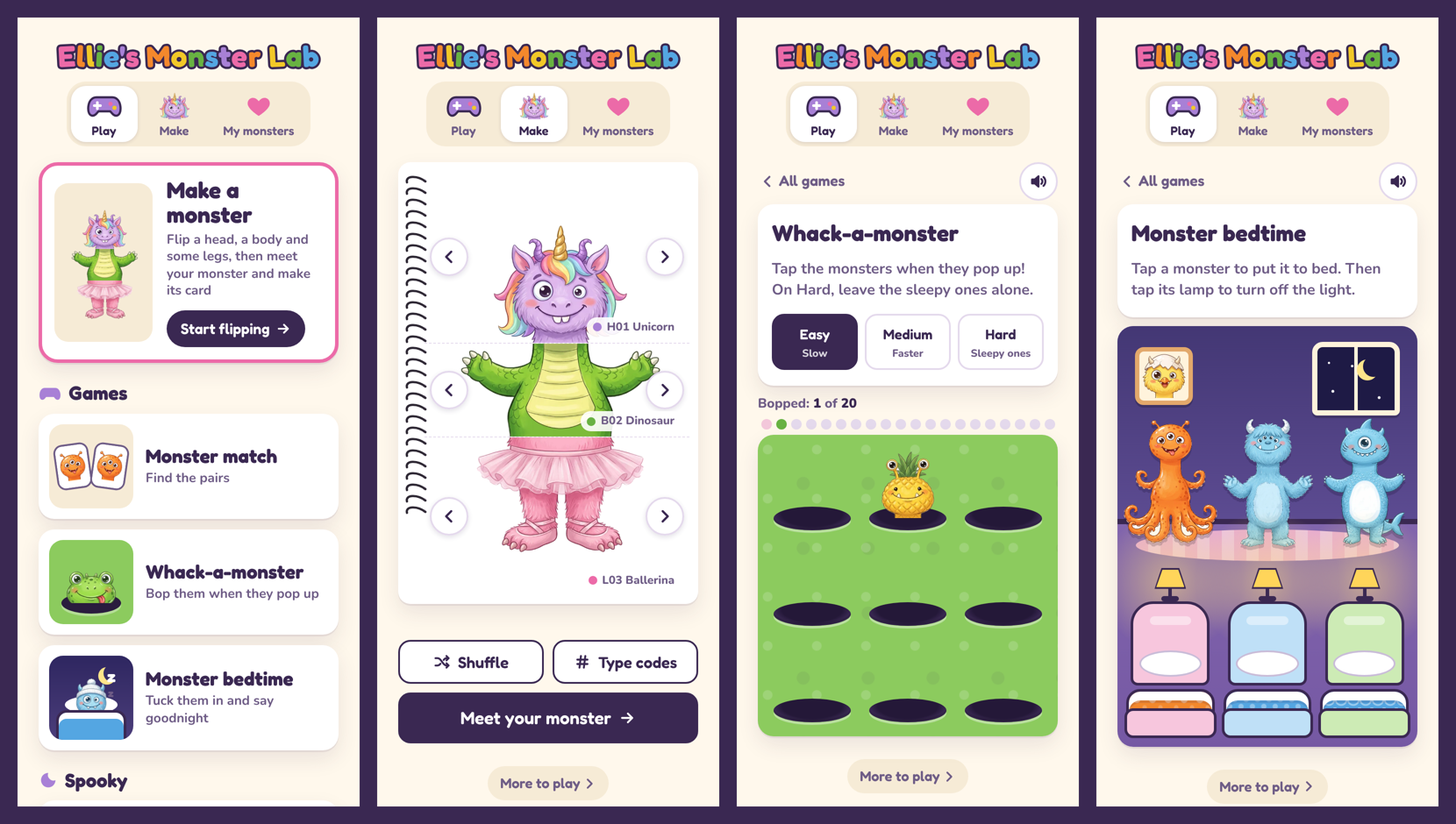
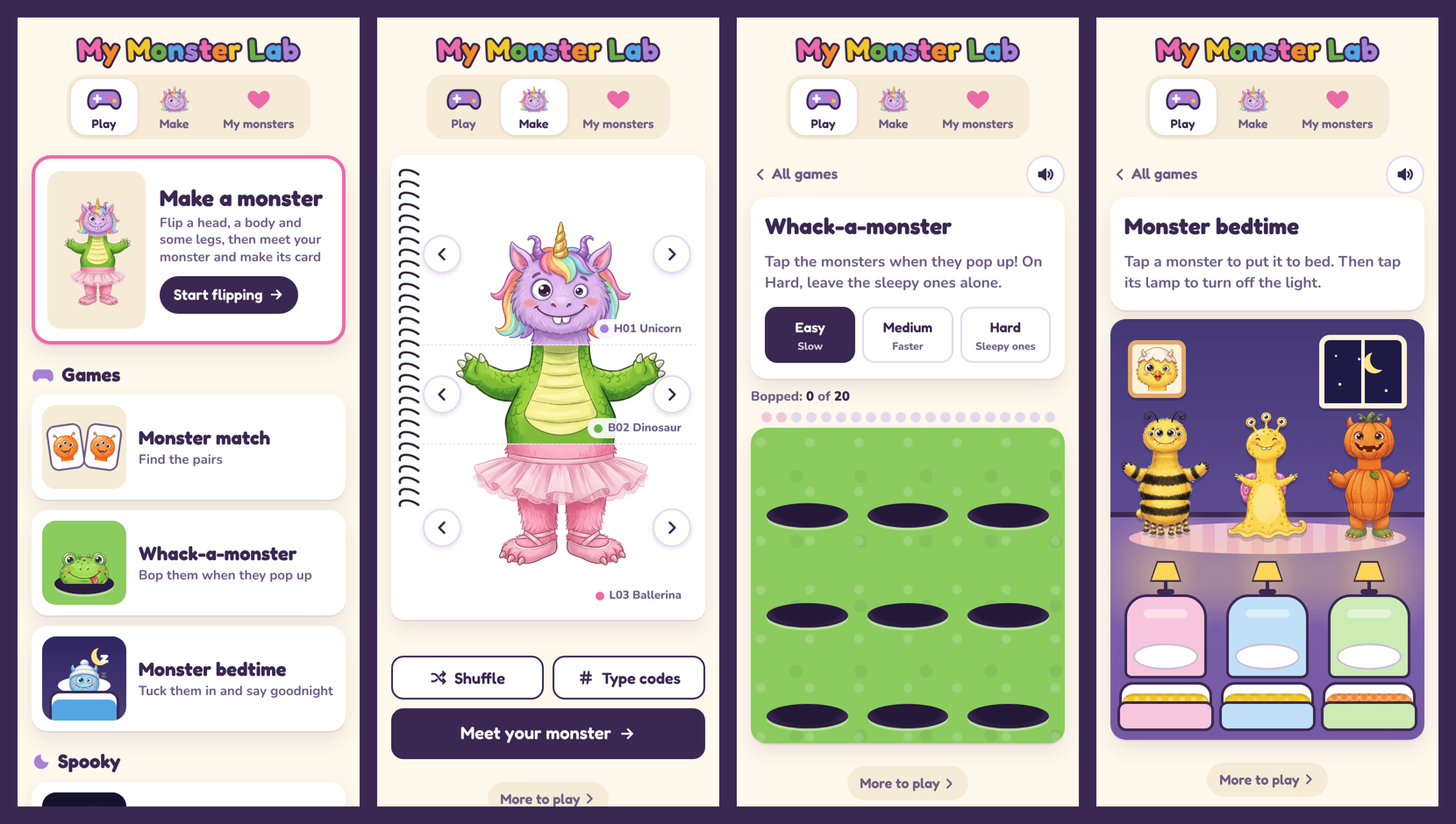
Family details out of the public code; privacy wording; test_site fails on errors
- README: privacy wording (the display name goes in personalised links),
  local serving instead of the file:// claim, no name or age.
- The build replaces the preview's name by pattern; placeholders and
  comments are generic; tests use made-up names.
- New screenshot; the sample card picture is gone.
- test_site.py checks each step (save, delete, backup, restore, overflow,
  page errors) and exits non-zero if any fails.

Claude-Session: https://claude.ai/code/session_01NQ6FTNbBids6pYzNb6FNsW

diff --git a/index.html b/index.html
@@ -724,7 +724,7 @@ button { cursor: pointer; }
     <div class="panel settings">
       <h2 class="h2">Whose book is this?</h2>
       <label class="field" for="owner">Name on the book and cards
-        <input id="owner" maxlength="20" autocomplete="off" placeholder="e.g. Ellie"></label>
+        <input id="owner" maxlength="20" autocomplete="off" placeholder="e.g. Max"></label>
       <p class="note">Your monsters are saved on this device only. Nothing you type is sent anywhere.</p>
       <div class="row2">
         <button class="btn" id="backup">Back up</button>
@@ -813,9 +813,9 @@ function ownerName() {
   return n.slice(0, 20);
 }
 
-// The Learning Lab (learn.mikeohalloran.au) used to be part of this site, so Ellie's Letters and Numbers progress is
-// saved here, where only this site's pages can read it. The first time the Learning Lab opens on her phone it sends
-// her here for a moment (?handoff=learn); this page hands the progress back in the address and goes straight back.
+// The Learning Lab (learn.mikeohalloran.au) used to be part of this site, so the family's old Letters and Numbers
+// progress is saved here, where only this site's pages can read it. The first time the Learning Lab opens in a family
+// browser it comes here for a moment (?handoff=learn); this page hands the progress back in the address and goes straight back.
 const handingOff = (() => {
   try {
     const q = new URLSearchParams(location.search);
@@ -876,7 +876,7 @@ function renderTitle() {
 }
 
 // ------------------------------------------------------------- flip book --
-const state = { H: 1, B: 2, L: 3 };   // Ellie's three picks, as on the how-to page
+const state = { H: 1, B: 2, L: 3 };   // the three picks shown on the how-to page
 const strips = {};
 const CHEV = d => `<svg viewBox="0 0 24 24"><path d="${d}"/></svg>`;
 function buildBook() {
@@ -2080,7 +2080,7 @@ function renderLibrary() {
   $('libCount').textContent = store.monsters.length;
   $('libCount').hidden = !store.monsters.length;
   $('owner').value = store.owner ?? '';
-  $('owner').placeholder = DEFAULT_OWNER ? `e.g. ${DEFAULT_OWNER}` : 'e.g. Ellie';
+  $('owner').placeholder = DEFAULT_OWNER ? `e.g. ${DEFAULT_OWNER}` : 'e.g. Max';
   const grid = $('grid'); grid.textContent = '';
   $('empty').hidden = store.monsters.length > 0;
   [...store.monsters].reverse().forEach(rec => {

diff --git a/tools/test_site.py b/tools/test_site.py
@@ -1,4 +1,4 @@
-"""Drive the site in Chromium at phone size and screenshot each screen.
+"""Drive the site in Chromium at phone size, check each step and screenshot each screen. Exits non-zero if anything fails.
     python3 tools/test_site.py OUTDIR   (serves the repo root on port 8791 while it runs)"""
 import http.server, socketserver, sys, threading, functools, json, time
 from pathlib import Path
@@ -13,6 +13,11 @@ srv = socketserver.TCPServer(('127.0.0.1', 8791), Handler)
 threading.Thread(target=srv.serve_forever, daemon=True).start()
 
 problems = []
+def check(label, ok):
+    print(('ok   ' if ok else 'FAIL ') + label)
+    if not ok: problems.append(label)
+codes = lambda pg: [c.split()[0] for c in pg.eval_on_selector_all('.chip .code', 'els => els.map(e => e.textContent)')]
+
 with sync_playwright() as pw:
     b = pw.chromium.launch()
     ctx = b.new_context(viewport={'width': 390, 'height': 844}, device_scale_factor=2, is_mobile=True, has_touch=True)
@@ -32,27 +37,26 @@ with sync_playwright() as pw:
     page.screenshot(path=OUT / '1b_midflip.png')
     page.wait_for_timeout(500)
     page.click('.strip[data-part="B"] .next'); page.click('.strip[data-part="L"] .prev'); page.wait_for_timeout(700)
-    chips = page.eval_on_selector_all('.chip .code', 'els => els.map(e => e.textContent)')
-    print('after flips:', chips)
+    check(f'flipping: head and body forward, legs back ({codes(page)})', codes(page) == ['H02', 'B03', 'L02'])
     # type codes: the whole fox
     page.click('#typeCodes'); page.fill('#cH', '18'); page.fill('#cB', 'B18'); page.fill('#cL', '18')
     page.click('#codes button[type=submit]'); page.wait_for_timeout(900)
-    print('codes 18/18/18:', page.eval_on_selector_all('.chip .code', 'els => els.map(e => e.textContent)'), '|', page.text_content('#match'))
+    check(f'typed codes 18, B18, 18 give the whole fox ({codes(page)}, "{page.text_content("#match")}")', codes(page) == ['H18', 'B18', 'L18'] and 'Fox' in page.text_content('#match'))
     # bad code
     page.click('#typeCodes'); page.fill('#cH', '45'); page.click('#codes button[type=submit]')
-    print('bad code message:', page.text_content('#codeErr'))
+    check(f'a code over 30 is refused with a message ("{page.text_content("#codeErr")}")', '1 to 30' in page.text_content('#codeErr') and codes(page) == ['H18', 'B18', 'L18'])
     page.fill('#cH', '18'); page.fill('#cB', '26'); page.fill('#cL', '7'); page.click('#codes button[type=submit]'); page.wait_for_timeout(900)
     # swipe the body strip left (next)
     box = page.locator('.strip[data-part="B"]').bounding_box()
     y = box['y'] + box['height'] / 2
     page.mouse.move(box['x'] + box['width'] * .7, y); page.mouse.down(); page.mouse.move(box['x'] + box['width'] * .3, y, steps=6); page.mouse.up()
     page.wait_for_timeout(700)
-    print('after swipe:', page.eval_on_selector_all('.chip .code', 'els => els.map(e => e.textContent)'))
+    check(f'swiping the body left turns to the next one ({codes(page)})', codes(page) == ['H18', 'B27', 'L07'])
     page.click('.strip[data-part="B"] .prev'); page.wait_for_timeout(700)
     page.screenshot(path=OUT / '2_mixed.png', full_page=True)
     # meet
     page.click('#toMeet'); page.wait_for_timeout(1200)
-    page.click('#makeName'); print('made-up name:', page.input_value('#q_name'))
+    page.click('#makeName'); check(f'"make up a name" fills in a name ({page.input_value("#q_name")})', len(page.input_value('#q_name')) >= 3)
     page.fill('#q_name', 'Fuzzbert'); page.fill('#q_food', 'Spaghetti and pancakes'); page.fill('#q_friend', 'A snail called Gary'); page.fill('#q_grumpy', 'Bath time')
     page.screenshot(path=OUT / '3_meet.png', full_page=True)
     page.click('#toCard'); page.wait_for_function("document.getElementById('cardImg').complete && document.getElementById('cardImg').naturalWidth > 0", timeout=15000)
@@ -63,12 +67,12 @@ with sync_playwright() as pw:
         return await new Promise(res => { const f = new FileReader(); f.onload = () => res(f.result); f.readAsDataURL(b); }); }""")
     import base64
     (OUT / 'card_full.png').write_bytes(base64.b64decode(data.split(',', 1)[1]))
-    print('download button visible (top-level):', page.is_visible('#dl'))
+    check('the card is a real picture, with a save button', len(data) > 10000 and page.is_visible('#dl'))
     page.click('#saveLib'); page.wait_for_timeout(300)
-    print('save button now:', page.text_content('#saveLib'), '| count', page.text_content('#libCount'))
+    check(f'saving: "{page.text_content("#saveLib")}", My monsters count {page.text_content("#libCount")}', 'Saved' in page.text_content('#saveLib') and page.text_content('#libCount').strip() == '1')
     # change answers -> save changes
     page.click('#editAns'); page.wait_for_timeout(500); page.fill('#q_grumpy', 'Bath time and broccoli'); page.click('#toCard')
-    page.wait_for_timeout(1500); print('after edit, save button:', page.text_content('#saveLib'))
+    page.wait_for_timeout(1500); check(f'changed answers offer "{page.text_content("#saveLib")}"', 'Save changes' in page.text_content('#saveLib'))
     page.click('#saveLib'); page.wait_for_timeout(200)
     # second monster
     page.click('#another'); page.wait_for_timeout(300); page.click('#shuffle'); page.wait_for_timeout(1200)
@@ -77,28 +81,36 @@ with sync_playwright() as pw:
     page.click('#tabLib'); page.wait_for_timeout(2500)
     page.screenshot(path=OUT / '5_library.png', full_page=True)
     stored = page.evaluate("localStorage.getItem('monster-book.v1')")
-    d = json.loads(stored); print('stored monsters:', [(m['name'], m['h'], m['b'], m['l'], m.get('grumpy')) for m in d['monsters']])
+    d = json.loads(stored); got = [(m['name'], m['h'], m['b'], m['l'], m.get('grumpy')) for m in d['monsters']]
+    check(f'both monsters saved, the first with its changed answer and codes {got}', [m['name'] for m in d['monsters']] == ['Fuzzbert', 'Princess Wobble']
+          and got[0] == ('Fuzzbert', 18, 26, 7, 'Bath time and broccoli') and page.eval_on_selector_all('.tile', 'e => e.length') == 2)
     # owner name
     page.fill('#owner', 'Max'); page.press('#owner', 'Tab'); page.wait_for_timeout(200)
-    print('title now:', page.get_attribute('#title', 'aria-label'))
+    check(f'the owner name renames the site ("{page.get_attribute("#title", "aria-label")}")', page.get_attribute('#title', 'aria-label') == "Max's Monster Lab")
     # open a saved one, delete needs two taps
     page.click('.tile >> nth=0'); page.wait_for_timeout(1800)
-    page.click('#del'); print('first tap:', page.text_content('#del'), '| count', page.text_content('#libCount'))
-    page.click('#del'); page.wait_for_timeout(300); print('after second tap, count:', page.text_content('#libCount'))
+    page.click('#del'); check(f'delete asks twice: "{page.text_content("#del")}", still {page.text_content("#libCount")}', 'again' in page.text_content('#del') and page.text_content('#libCount').strip() == '2')
+    page.click('#del'); page.wait_for_timeout(300); check(f'the second tap deletes it ({page.text_content("#libCount")} left)', page.text_content('#libCount').strip() == '1')
     # backup / restore round trip
     backup = page.evaluate("JSON.stringify(JSON.parse(localStorage.getItem('monster-book.v1')))")
     page.evaluate("localStorage.removeItem('monster-book.v1')"); page.reload(); page.wait_for_timeout(800)
-    page.click('#tabLib'); page.wait_for_timeout(300); print('after clearing, count:', page.text_content('#libCount'))
+    page.click('#tabLib'); page.wait_for_timeout(300); check(f'with the saved data cleared, My monsters is empty ({page.text_content("#libCount")})', page.text_content('#libCount').strip() in ('', '0'))
     payload = json.dumps({'app': 'monster-book', 'version': 1, 'owner': 'Max', 'monsters': json.loads(backup)['monsters']})
     page.set_input_files('#restoreFile', files=[{'name': 'b.json', 'mimeType': 'application/json', 'buffer': payload.encode()}])
-    page.wait_for_timeout(800); print('after restore, count:', page.text_content('#libCount'), '| title', page.get_attribute('#title', 'aria-label'))
+    page.wait_for_timeout(800)
+    restored = json.loads(page.evaluate("localStorage.getItem('monster-book.v1')") or '{}')
+    check(f'restoring the backup brings the monster and the owner back ({page.text_content("#libCount")}, "{page.get_attribute("#title", "aria-label")}")',
+          page.text_content('#libCount').strip() == '1' and [m['name'] for m in restored.get('monsters', [])] == [m['name'] for m in json.loads(backup)['monsters']]
+          and page.get_attribute('#title', 'aria-label') == "Max's Monster Lab")
     page.screenshot(path=OUT / '6_library_restored.png', full_page=True)
     # horizontal overflow check
-    print('page wider than screen:', page.evaluate('document.documentElement.scrollWidth > innerWidth'))
+    check('no sideways scroll', not page.evaluate('document.documentElement.scrollWidth > innerWidth'))
     # empty state on a fresh device
-    p2 = ctx.new_page(); p2.goto('http://127.0.0.1:8791/index.html?for=Vivie'); p2.evaluate("localStorage.clear()"); p2.reload(); p2.wait_for_timeout(800)
+    p2 = ctx.new_page(); p2.goto('http://127.0.0.1:8791/index.html?for=Alex'); p2.evaluate("localStorage.clear()"); p2.reload(); p2.wait_for_timeout(800)
     p2.click('#tabLib'); p2.wait_for_timeout(300); p2.screenshot(path=OUT / '7_empty.png', full_page=True)
-    print('?for=Vivie title:', p2.get_attribute('#title', 'aria-label'))
+    check(f'a gift link on a fresh device: "{p2.get_attribute("#title", "aria-label")}", nothing saved', p2.get_attribute('#title', 'aria-label') == "Alex's Monster Lab"
+          and p2.text_content('#libCount').strip() in ('', '0'))
     b.close()
 srv.shutdown()
-print('PROBLEMS:' if problems else 'no console errors or failed loads', *problems, sep='\n  ')
+print('PROBLEMS:' if problems else 'all good: no failed checks, console errors or failed loads', *problems, sep='\n  ')
+sys.exit(1 if problems else 0)

diff --git a/tools/test_links.py b/tools/test_links.py
@@ -76,11 +76,11 @@ with sync_playwright() as pw:
     p.click('#tabMake'); p.click('#tabGames'); p.click('#playWhack'); p.wait_for_timeout(200)
     check('tab switches do not pile up history', p.evaluate('history.length') == hist)
     # 6. a gift link keeps its name with #match
-    p.goto(BASE + '?for=Ivy#match'); p.wait_for_timeout(700)
+    p.goto(BASE + '?for=Alex#match'); p.wait_for_timeout(700)
     title = p.text_content('.title')
-    check(f'?for=Ivy#match: title "{title.strip()}" and on the game', 'Ivy' in title and p.is_visible('#matchgame'))
+    check(f'?for=Alex#match: title "{title.strip()}" and on the game', 'Alex' in title and p.is_visible('#matchgame'))
     p.click('#tabMake'); p.wait_for_timeout(300)
-    check('gift link keeps ?for=Ivy after switching tabs', p.evaluate('location.search') == '?for=Ivy')
+    check('gift link keeps ?for=Alex after switching tabs', p.evaluate('location.search') == '?for=Alex')
     # 7. typing a hash by hand switches screens
     p.evaluate("location.hash = '#monsters'"); p.wait_for_timeout(300)
     check('changing the hash to #monsters shows the library', p.is_visible('#library'))
@@ -107,15 +107,15 @@ with sync_playwright() as pw:
     ctx.route('https://learn.mikeohalloran.au/**', lambda r: r.fulfill(status=200, content_type='text/html', body='<p>learning lab</p>'))
     p.on('framenavigated', lambda f: f == p.main_frame and f.url.startswith('https://learn.') and seen.append(f.url))
     for h in ('#letters', '#count', '#quick'):
-        p.goto(BASE + '?for=Ellie' + h, wait_until='commit'); p.wait_for_url('https://learn.mikeohalloran.au/**', timeout=8000); p.wait_for_timeout(200)
-    check(f'#letters, #count and #quick go to the Learning Lab ({len(seen)} hops)', seen == [f'https://learn.mikeohalloran.au/?for=Ellie{h}' for h in ('#letters', '#count', '#quick')])
+        p.goto(BASE + '?for=Sam' + h, wait_until='commit'); p.wait_for_url('https://learn.mikeohalloran.au/**', timeout=8000); p.wait_for_timeout(200)
+    check(f'#letters, #count and #quick go to the Learning Lab ({len(seen)} hops)', seen == [f'https://learn.mikeohalloran.au/?for=Sam{h}' for h in ('#letters', '#count', '#quick')])
     # 10. the one-time hand-over: this site's saved Letters and Numbers progress goes back to the Learning Lab
     seen.clear()
     p.goto(BASE, wait_until='domcontentloaded'); p.wait_for_timeout(300); p.evaluate("localStorage.setItem('monster-book.letters', JSON.stringify({ next: 'k', mode: 'spell', traced: { a: 1 } })); localStorage.setItem('monster-book.numbers', JSON.stringify({ count: '2' })); localStorage.setItem('monster-book.sound', 'off')")
-    p.goto(BASE + '?handoff=learn&for=Ellie&to=letters', wait_until='commit'); p.wait_for_timeout(800)
+    p.goto(BASE + '?handoff=learn&for=Sam&to=letters', wait_until='commit'); p.wait_for_timeout(800)
     import json as _j, urllib.parse as _u
     got = _j.loads(_u.unquote(seen[0].split('#import=', 1)[1])) if seen and '#import=' in seen[0] else {}
-    check(f'?handoff=learn sends the progress straight back ({seen[0][:60] if seen else "no hop"}...)', seen and seen[0].startswith('https://learn.mikeohalloran.au/?for=Ellie#import=')
+    check(f'?handoff=learn sends the progress straight back ({seen[0][:60] if seen else "no hop"}...)', seen and seen[0].startswith('https://learn.mikeohalloran.au/?for=Sam#import=')
           and _j.loads(got.get('letters') or '{}').get('next') == 'k' and _j.loads(got.get('numbers') or '{}').get('count') == '2' and got.get('sound') == 'off' and got.get('to') == 'letters')
     p.goto(BASE + '?handoff=learn&to=../../evil', wait_until='commit'); p.wait_for_timeout(800)
     check('  it only ever goes to the Learning Lab, and drops a strange "to"', seen[-1].startswith('https://learn.mikeohalloran.au/') and '"to":""' in _u.unquote(seen[-1]))

diff --git a/tools/build_site.py b/tools/build_site.py
@@ -1,13 +1,17 @@
 """Wrap the page (app.html, the version written for the Claude preview) into a standalone index.html for hosting.
 Only needed if you edit app.html; index.html in this repo is the built result."""
+import re
 from pathlib import Path
 site = Path(__file__).resolve().parent.parent / 'site'
 body = (site / 'app.html').read_text(encoding='utf-8')
-# the hosted site is for everyone: the plain link says "My Monster Lab"; gift links add ?for=Name
-body = body.replace("const DEFAULT_OWNER = 'Ellie';", "const DEFAULT_OWNER = '';", 1)
-assert "<title>Ellie's Monster Lab</title>" in body
-body = body.replace("<title>Ellie's Monster Lab</title>", "<title>My Monster Lab</title>", 1)
-body = body.replace('aria-label="Ellie\'s Monster Lab"', 'aria-label="My Monster Lab"', 1)
+def sub1(pattern, repl):   # exactly one match, or stop
+    global body
+    body, n = re.subn(pattern, lambda m: repl, body, count=1)
+    assert n == 1, pattern
+# the hosted site is for everyone: no name built in, so the plain link says "My Monster Lab"; gift links add ?for=Name
+sub1(r"const DEFAULT_OWNER = '[^'\n]*';", "const DEFAULT_OWNER = '';")
+sub1(r"<title>[^<\n]*Monster Lab</title>", "<title>My Monster Lab</title>")
+sub1(r'aria-label="[^"\n]*Monster Lab"', 'aria-label="My Monster Lab"')
 SITE_URL = 'https://monsters.mikeohalloran.au'
 head_end = body.index('<style>')
 head, rest = body[:head_end], body[head_end:]

diff --git a/tools/test_games.py b/tools/test_games.py
@@ -112,12 +112,12 @@ with sync_playwright() as pw:
 
     # ---------------------------------------------------------------- bedtime
     ctx, p = new_page(b)
-    saved = {'owner': 'Ellie', 'monsters': [
+    saved = {'owner': 'Sam', 'monsters': [
         {'id': 'a', 'h': 18, 'b': 26, 'l': 7, 'name': 'Fuzzbert', 'food': '', 'friend': '', 'grumpy': '', 'created': '2026-10-14T09:00:00Z'},
         {'id': 'b', 'h': 27, 'b': 28, 'l': 27, 'name': 'Princess Wobble', 'food': '', 'friend': '', 'grumpy': '', 'created': '2026-10-14T09:05:00Z'}]}
     p.goto(BASE); p.evaluate(f"localStorage.setItem('monster-book.v1', {json.dumps(json.dumps(saved))})")
     p.clock.install()
-    p.goto(BASE + '?for=Ellie#bedtime'); p.wait_for_timeout(1500); p.clock.run_for(300)   # a new URL, so a real reload
+    p.goto(BASE + '?for=Sam#bedtime'); p.wait_for_timeout(1500); p.clock.run_for(300)   # a new URL, so a real reload
     labels = p.eval_on_selector_all('.waiter', 'els => els.map(e => e.getAttribute("aria-label"))')
     check(f'3 monsters waiting, both saved ones among them: {labels}', len(labels) == 3 and any('Fuzzbert' in l for l in labels) and any('Princess Wobble' in l for l in labels))
     check('3 beds, all empty', p.eval_on_selector_all('.bed', 'e => e.length') == 3 and p.eval_on_selector_all('.bed.in', 'e => e.length') == 0)

diff --git a/README.md b/README.md
@@ -1,6 +1,6 @@
 # Monster Lab
 
-A tiny website for a four-year-old. Flip a monster's head, body and legs, answer four questions about the monster you made, and get a card to print. Then play games with the monsters.
+A tiny website for young children. Flip a monster's head, body and legs, answer four questions about the monster you made, and get a card to print. Then play games with the monsters.
 
 **Try it:** [monsters.mikeohalloran.au](https://monsters.mikeohalloran.au/)
 
@@ -10,14 +10,14 @@ Built with [Claude](https://claude.ai) in a day, alongside the printed book it g
 
 ## The story
 
-My daughter Ellie is four. I made her a mix-and-match flip book: 30 monsters, each page cut into three strips, so she can flip heads, bodies and legs independently. That's 27,000 monsters in one coil-bound book. The art came from Google AI Studio, the page layout and print files from Python, and the printing from Officeworks.
+I made my daughter a mix-and-match flip book: 30 monsters, each page cut into three strips, so she can flip heads, bodies and legs independently. That's 27,000 monsters in one coil-bound book. The art came from Google AI Studio, the page layout and print files from Python, and the printing from Officeworks.
 
-The book's last page asks four questions about the monster you just made: What's their name? What's their favourite food? Who is their best friend? What makes them grumpy? Ellie's answers deserved somewhere to live, so the book got a website.
+The book's last page asks four questions about the monster you just made: What's their name? What's their favourite food? Who is their best friend? What makes them grumpy? Her answers deserved somewhere to live, so the book got a website.
 
 The site does the same thing as the book, on a phone:
 
 1. **Flip.** The strips turn over like real pages, by arrow or by swipe. Shuffle picks three at random, or you can type the codes printed on the book's strips (H12, B03, L27).
-2. **Meet your monster.** The four questions, with a "make up a name" button for when a four-year-old is stuck.
+2. **Meet your monster.** The four questions, with a "make up a name" button for when a young child is stuck.
 3. **Make the card.** A picture with the name in rainbow letters, the monster, the answers, the date and the strip codes. Save it, print it, stick it on the fridge.
 4. **My monsters.** Every saved monster, on that device, with backup and restore.
 
@@ -50,7 +50,7 @@ That was the main design decision. The obvious version of this site has user acc
 - **The monster is assembled in the browser.** The site holds 90 transparent strip images (30 heads, bodies and legs, about 3 MB in total), cut from the real print files so they match the book exactly. Three `<img>` tags stacked in a column are a monster.
 - **The card is drawn in the browser** on a canvas: 1200 × 1600 px, with the same fonts and colours as the printed book. Saving it is just saving a PNG.
 - **The library lives in `localStorage`.** Each saved monster is three codes, four answers and a date, a couple of hundred bytes. The card is redrawn from the strips every time, so nothing bulky is stored. Backup and restore move the library between devices as a small JSON file.
-- **What anyone types stays on their phone.** Names, answers, saved monsters and scores are never sent anywhere. The site makes two kinds of outside request: Google Fonts, and the page itself. A gift link carries the child's first name in its address (`?for=Max`), so opening one, or following "More to play" from it, sends that name to the site's hosting as part of the page request. That is the only thing that leaves the phone, and only the name. (One more thing moves, once, on a device set up for Ellie: the first time the Learning Lab opens there, this site hands her saved Letters progress across in the part of the address after the `#`, which browsers never send to a server.)
+- **Privacy.** Answers, saved monsters and scores stay in this browser unless you export or share them. The display name is included in personalised links between the sites (a gift link like `?for=Max`, and "More to play" once a name is set), so the hosting service receives it when those links are opened. The page also loads its fonts from Google Fonts. (One more thing moves, once, in a browser set up for the Learning Lab's Letters game: the first time the Learning Lab opens there, this site hands the old saved Letters progress across in the part of the address after the `#`, which browsers don't send to a server.)
 - **Not meant for search.** A `noindex` tag asks search engines not to list the site. It's for families with the book, who arrive by QR code, gift link or home-screen icon.
 
 ### Things that turned out to matter
@@ -58,10 +58,10 @@ That was the main design decision. The obvious version of this site has user acc
 - **A page turn, not a fade.** The first version faded between strips. Flipping a real strip in the book turns it over, so the site does the same: a 3D rotate on the strip, hinged at the coil. It's one CSS transform and it made the thing feel like the book.
 - **White tummies.** Cutting the monsters out of the print files by colour left the white tummies transparent. The fix was to build a solid silhouette of each monster first, then use that as the alpha mask. Same trick for the printed cut lines that cross pale tummies at the joins.
 - **iPhones delete site data.** Safari removes a site's saved data if you don't open it for seven days of Safari use. Adding the site to the Home Screen avoids that. It's why there's a backup button.
-- **Nothing to type.** A four-year-old can't type H12, but she can swipe. The codes are the parent's shortcut; the swipe is hers.
+- **Nothing to type.** A young child can't type H12, but she can swipe. The codes are the parent's shortcut; the swipe is hers.
 - **Nothing to read, either.** Each tab has a picture above its label (a game controller for Play, a monster for Make, a heart for My monsters), and the games page is a set of big pictures, so she can find a game herself. The address follows the tabs, so a reload keeps her where she was.
 - **Sounds without sound files.** The boings, the snores and the lullaby are all made in the browser with the Web Audio API, so the games need nothing but the HTML file and the images. There's a mute button, and it's remembered.
-- **Make first, then play.** The front page is the games page, but Make a monster is its first and biggest tile, showing whatever monster is on the flip book. Someone arriving from the book is one tap from flipping, and Ellie, who comes back for the games, lands on them.
+- **Make first, then play.** The front page is the games page, but Make a monster is its first and biggest tile, showing whatever monster is on the flip book. Someone arriving from the book is one tap from flipping, and a child who comes back for the games lands on them.
 - **A stencil has to be carvable.** A pumpkin face that looks fine on screen can fall apart under a knife. Every eye, nose and mouth combination (144 of them) is checked: teeth, fangs and tongues stay joined to the pumpkin, and no two holes come closer than 9 mm, even on the smallest stencil. The stencil also keeps each face the size it is on the pumpkin: the first version stretched every face to the chosen width, so a one-eyed "Ooh" face came out bigger than the page.
 
 ## What's in this repo
@@ -71,7 +71,7 @@ That was the main design decision. The obvious version of this site has user acc
 | `index.html` | The whole site: markup, styles and script in one file |
 | `tools/make_web_strips.py` | Cuts the 90 strip images and 30 face icons from the book's print pages |
 | `tools/build_site.py` | Wraps the page for hosting and sets the generic title |
-| `tools/test_site.py` | Drives the site in Chromium at phone size: flipping, swiping, codes, saving, backup, restore |
+| `tools/test_site.py` | Drives the site in Chromium at phone size: flipping, swiping, codes, saving, deleting, backup, restore, no sideways scroll; any failed step or page error fails the run |
 | `tools/test_match.py` | Plays the match game: a wrong pair flips back, a full game ends in a win, the best score sticks, every level fits a phone |
 | `tools/test_links.py` | The tab bar fits at 360–430 px; the plain link opens on the games page with Make a monster first; the `#make`, `#match`, `#whack`, `#bedtime` and `#monsters` links and gift links work; and the old Letters and Numbers links go to the Learning Lab |
 | `tools/test_games.py` | Plays Whack-a-monster and Monster bedtime with the page clock fast-forwarded: a perfect round, an empty round, a sleepy monster on Hard, a full bedtime from tuck-in to Good morning |
@@ -82,7 +82,7 @@ The monster images aren't in the repo; they're the book. Nor is `site/app.html`,
 
 ## Running it locally
 
-The page needs to be served, not opened from a file, because browsers block images from `file://` pages.
+Serve the page rather than opening the file directly. Browsers treat `file://` pages differently from one another (saving to the device and drawing the card can both behave differently or fail), and a local server gives reliable browser behaviour, the same as the real site.
 
 ```
 python3 -m http.server 8000
@@ -94,4 +94,4 @@ Then open `http://localhost:8000`. Without the `strips/` and `faces/` folders yo
 
 Monster art generated with Google AI Studio. Fonts: [Fredoka](https://fonts.google.com/specimen/Fredoka) and [Nunito](https://fonts.google.com/specimen/Nunito), both Open Font Licence. Site and tools written with Claude.
 
-Made for Ellie.
+Made for my daughter.
